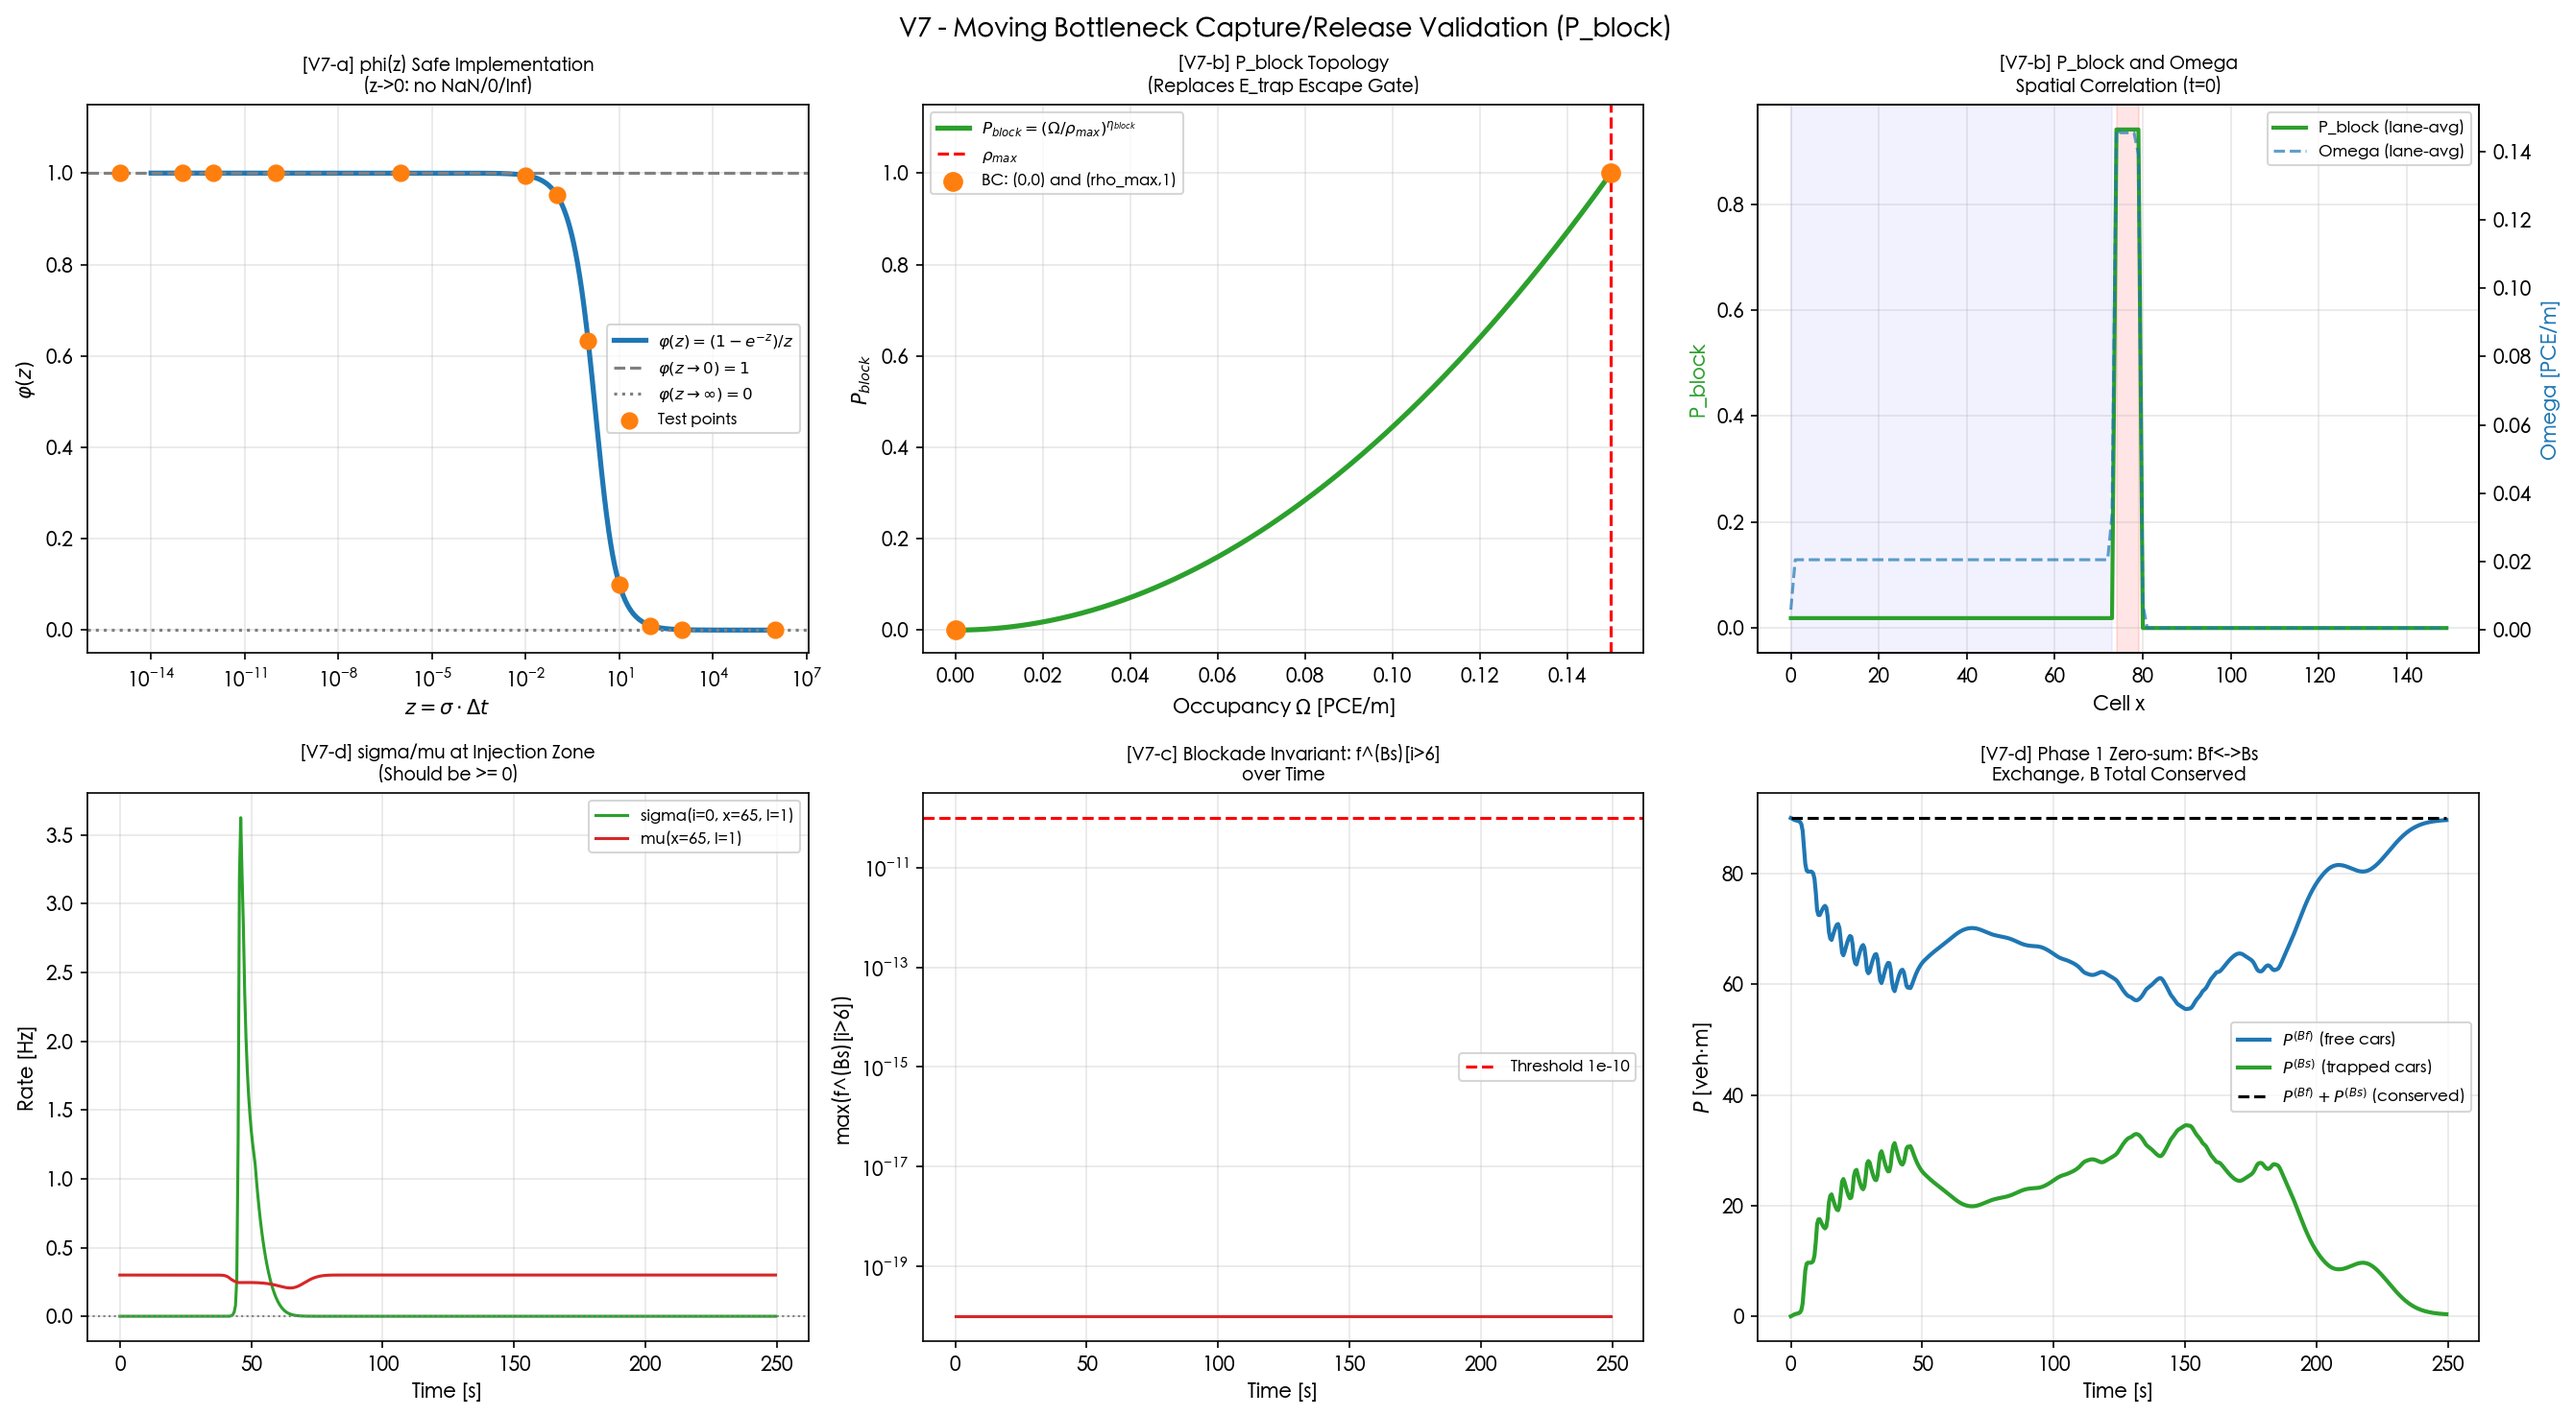
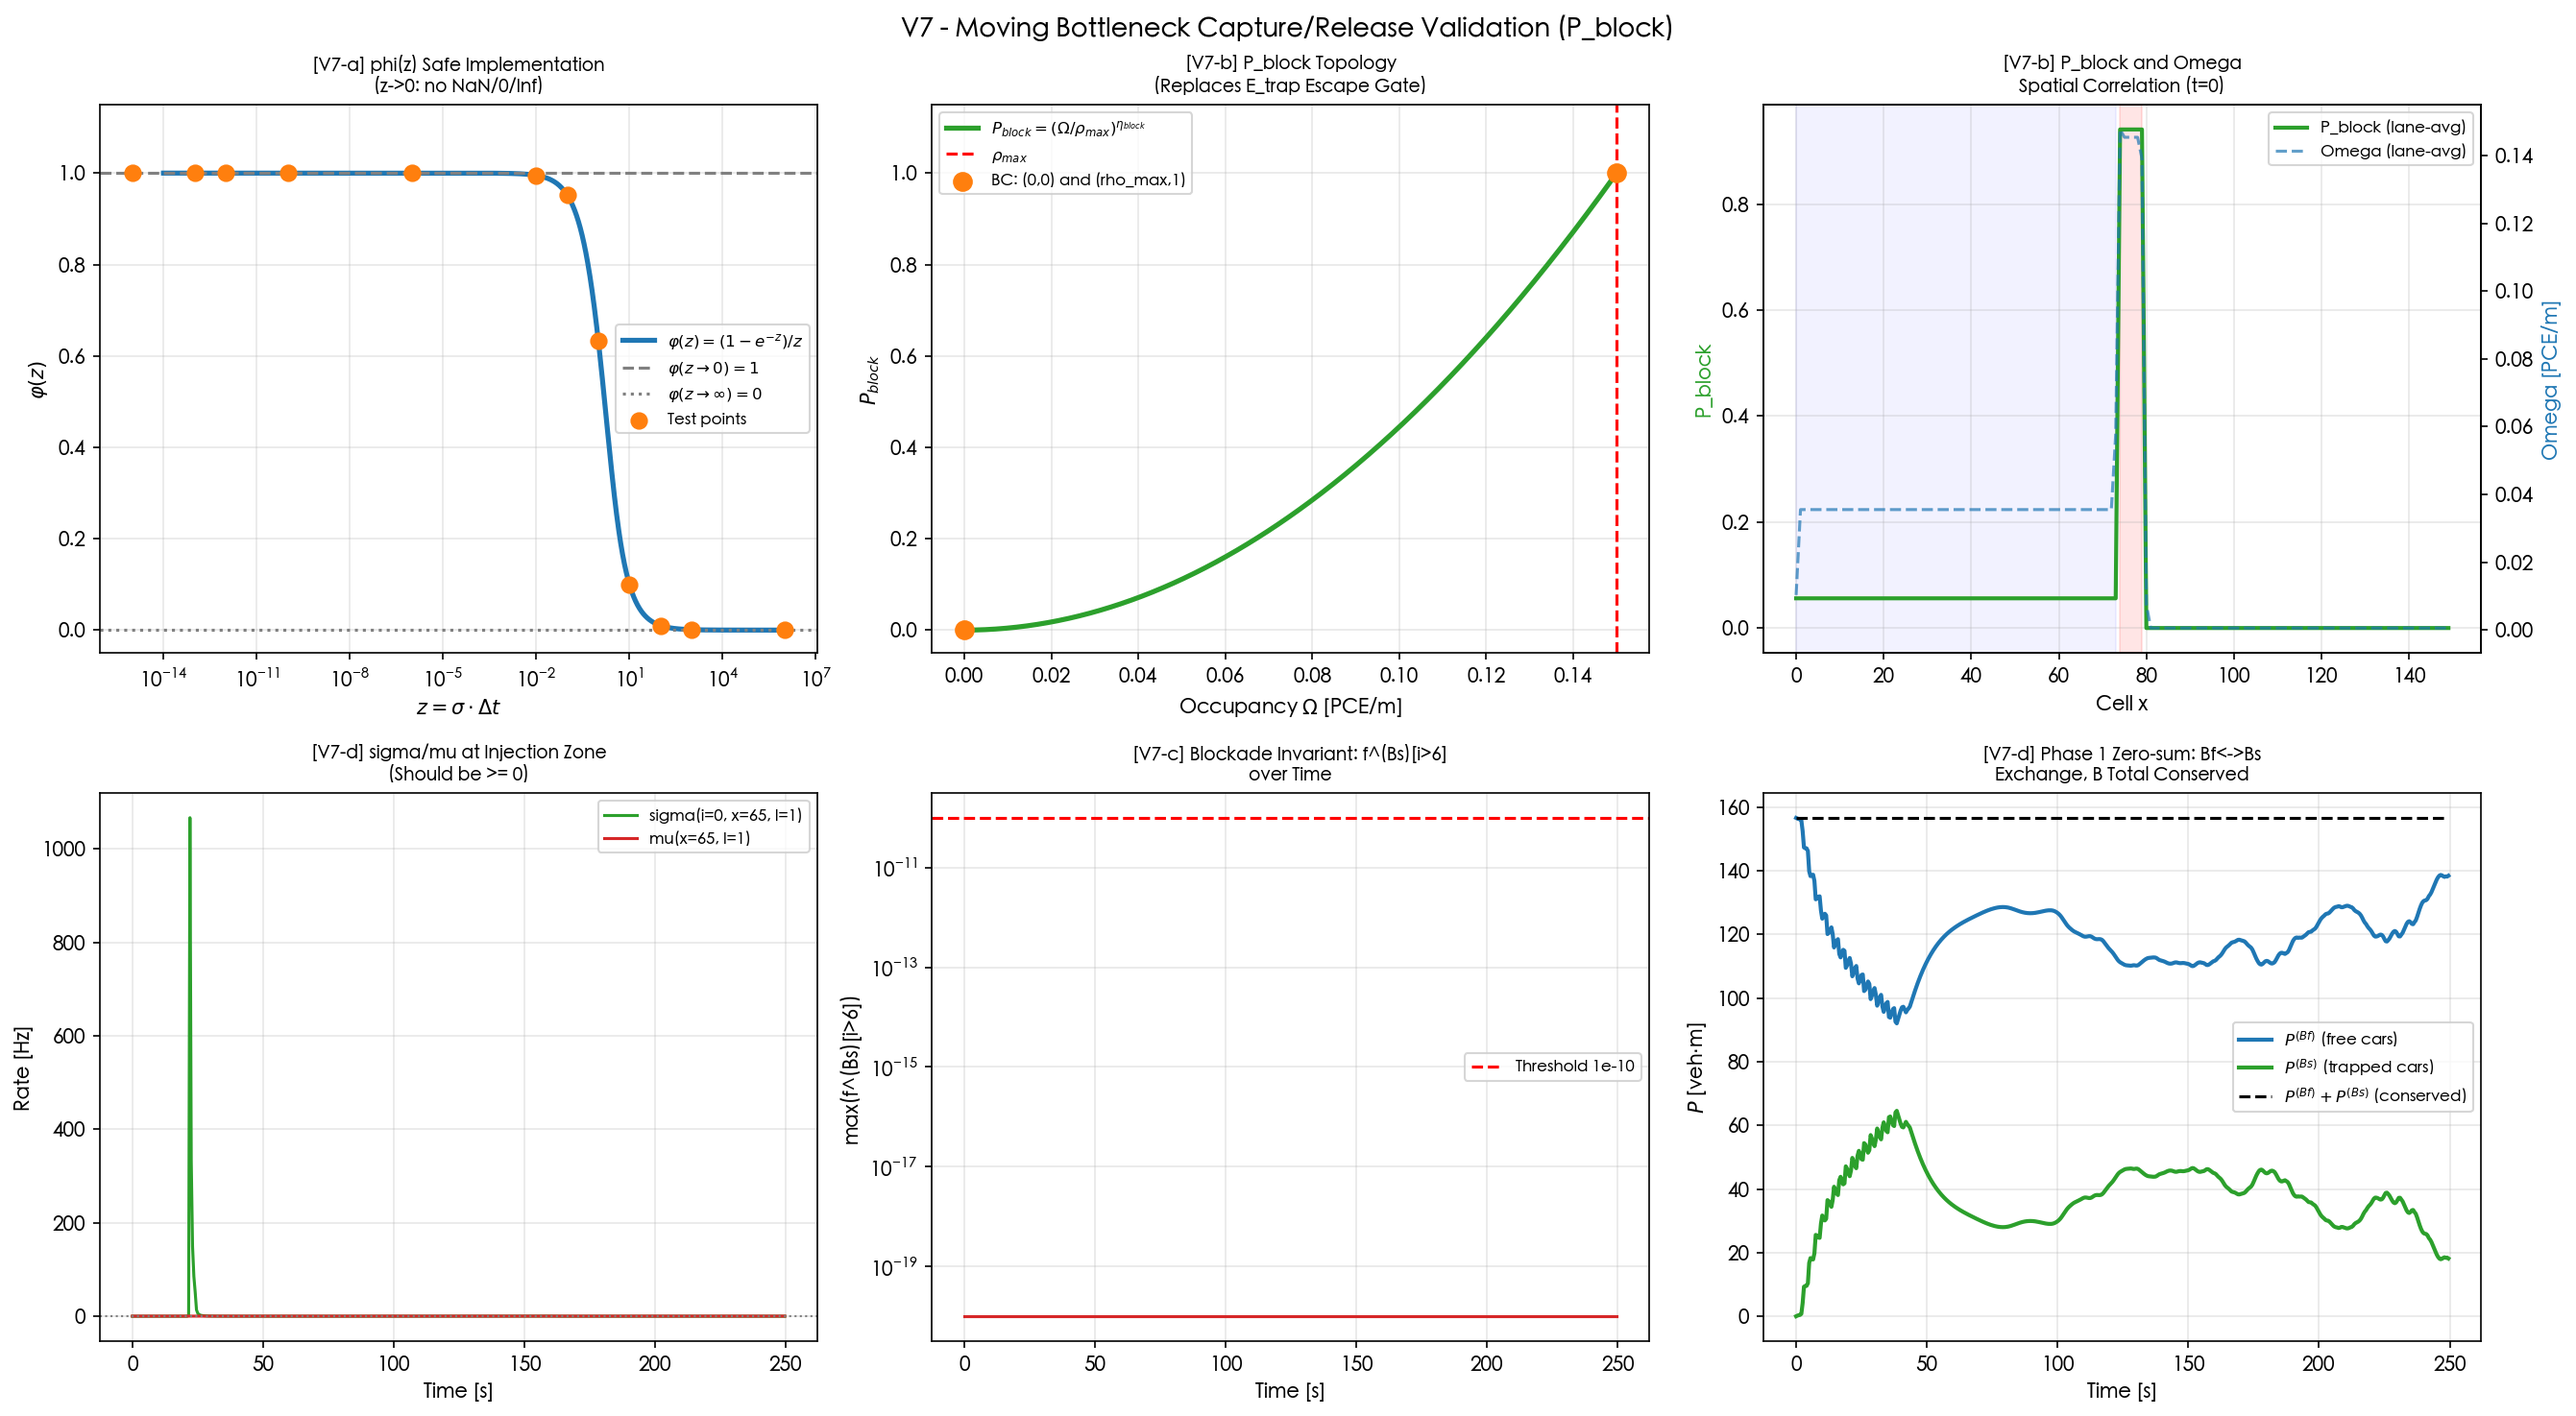
Tune parameters: sigma_0=0.8, rho_Bf=0.035; fix V3-e with exact omega reference
- generate_dataset.py: sigma_0 0.5→0.8 (60% stronger capture), Bf IC 0.020→0.035
  → f_Bs_total peaks at 2.47 (was ~0.003), stronger shock and Bs accumulation
- generate_dataset.py: store omega_pre_phase3 dataset (exact omega fed to Godunov
  limiter), replacing the omega[t-1] proxy that broke under near-capacity flux
- V3_fvm.py: V3-e now reads omega_pre_phase3 directly → ratio = 1.0000 exactly
- 41/41 PASS; file size 359.8 MB; mass error ≤ 5.44e-16 (machine precision)

diff --git a/code/generate_dataset.py b/code/generate_dataset.py
@@ -65,7 +65,7 @@ i_thr      = int(np.searchsorted(v, v_A_ff, side='right') - 1)  # = 6 (v[6]=14.0
 eta_block  = 2.0    # probabilistic blocking exponent (Eq. 8)
 omega_0_BA = 0.05   # kinetic exposure spontaneous rate [Hz]
 beta_BA    = 0.06   # kinetic exposure rate [m^-1]
-sigma_0    = 0.5    # base capture rate [Hz]
+sigma_0    = 0.8    # base capture rate [Hz]
 mu_0       = 0.3    # base release rate [Hz]
 R_A        = 0.05   # truck dispersal scale [PCE/m]
 
@@ -96,7 +96,7 @@ def initialize_state():
     # Class Bf (free cars, m=1): uniform upstream (x=0-73, v=30m/s, ρ=0.020)
     # Left half of ring = sustained free-flow state → classic Riemann problem setup.
     # Estimated shock speed ≈ -4.6 m/s → shock travels ~58 cells in 250 s (clearly visible).
-    f[1, 14, 0:74, :] = 0.020
+    f[1, 14, 0:74, :] = 0.035
 
     # Class Bs (trapped cars, m=2): starts at zero everywhere
     f[2, :, :, :] = 0.0
@@ -472,9 +472,10 @@ def setup_hdf5(filepath, T):
     mk('sigma',       (N, X, L))       # capture rate (Phase 1)
     mk('mu',          (X, L))          # release rate (Phase 1)
     mk('kappa_star',  (X, L))          # truck speed threshold per cell (int stored as float)
-    mk('rho_macro',   (M, X, L))       # macroscopic density
-    mk('q_macro',     (M, X, L))       # macroscopic flow
-    mk('u_macro',     (M, X, L))       # macroscopic speed
+    mk('rho_macro',        (M, X, L))  # macroscopic density
+    mk('q_macro',         (M, X, L))  # macroscopic flow
+    mk('u_macro',         (M, X, L))  # macroscopic speed
+    mk('omega_pre_phase3', (X, L))    # omega immediately before Phase 3 (exact Godunov reference)
 
     dg.create_dataset('time_s', data=np.arange(T) * dt)
     hf.create_dataset('diagnostics/mass_rel_error_B', shape=(T,), dtype=np.float64)
@@ -529,6 +530,7 @@ def run(output_path):
 
         # Phase 3: Spatial Advection (global Godunov)
         omega = compute_omega(f)
+        omega_pre3 = omega.copy()          # exact reference for V3-e Godunov check
         f, phi = phase3_advection(f, omega)
 
         # Final omega
@@ -549,9 +551,10 @@ def run(output_path):
         dg['sigma'][t]        = sigma
         dg['mu'][t]           = mu
         dg['kappa_star'][t]   = kappa_star.astype(np.float64)
-        dg['rho_macro'][t]    = rho_m
-        dg['q_macro'][t]      = q_m
-        dg['u_macro'][t]      = u_m
+        dg['rho_macro'][t]        = rho_m
+        dg['q_macro'][t]          = q_m
+        dg['u_macro'][t]          = u_m
+        dg['omega_pre_phase3'][t] = omega_pre3
         diag[t]               = rel_err
 
         if t % 50 == 0 or t == T_STEPS - 1:

diff --git a/code/V3_fvm.py b/code/V3_fvm.py
@@ -131,9 +131,7 @@ def run():
         max_alpha_violation = 0.0
         for t in range(0, T, 40):
             phi_t   = hf['data/phi'][t]                         # (M, N, X+1, L)
-            omega_t = hf['data/omega'][max(0, t - 1)]           # pre-advection proxy (X, L)
-            # phi[t] was limited by omega_before_phase3[t].
-            # Phases 1&2 preserve omega (V6-e), so omega[t-1] ≈ omega_before_phase3[t].
+            omega_t = hf['data/omega_pre_phase3'][t]            # exact omega used by Godunov limiter
             # Total PCE flux demand at each internal face
             # Φ_total[face] = Σ_{m,i} w[m] * phi[m,i,face,l]
             phi_total = (w[:, None, None, None] * phi_t).sum(axis=(0, 1))  # (X+1, L)
